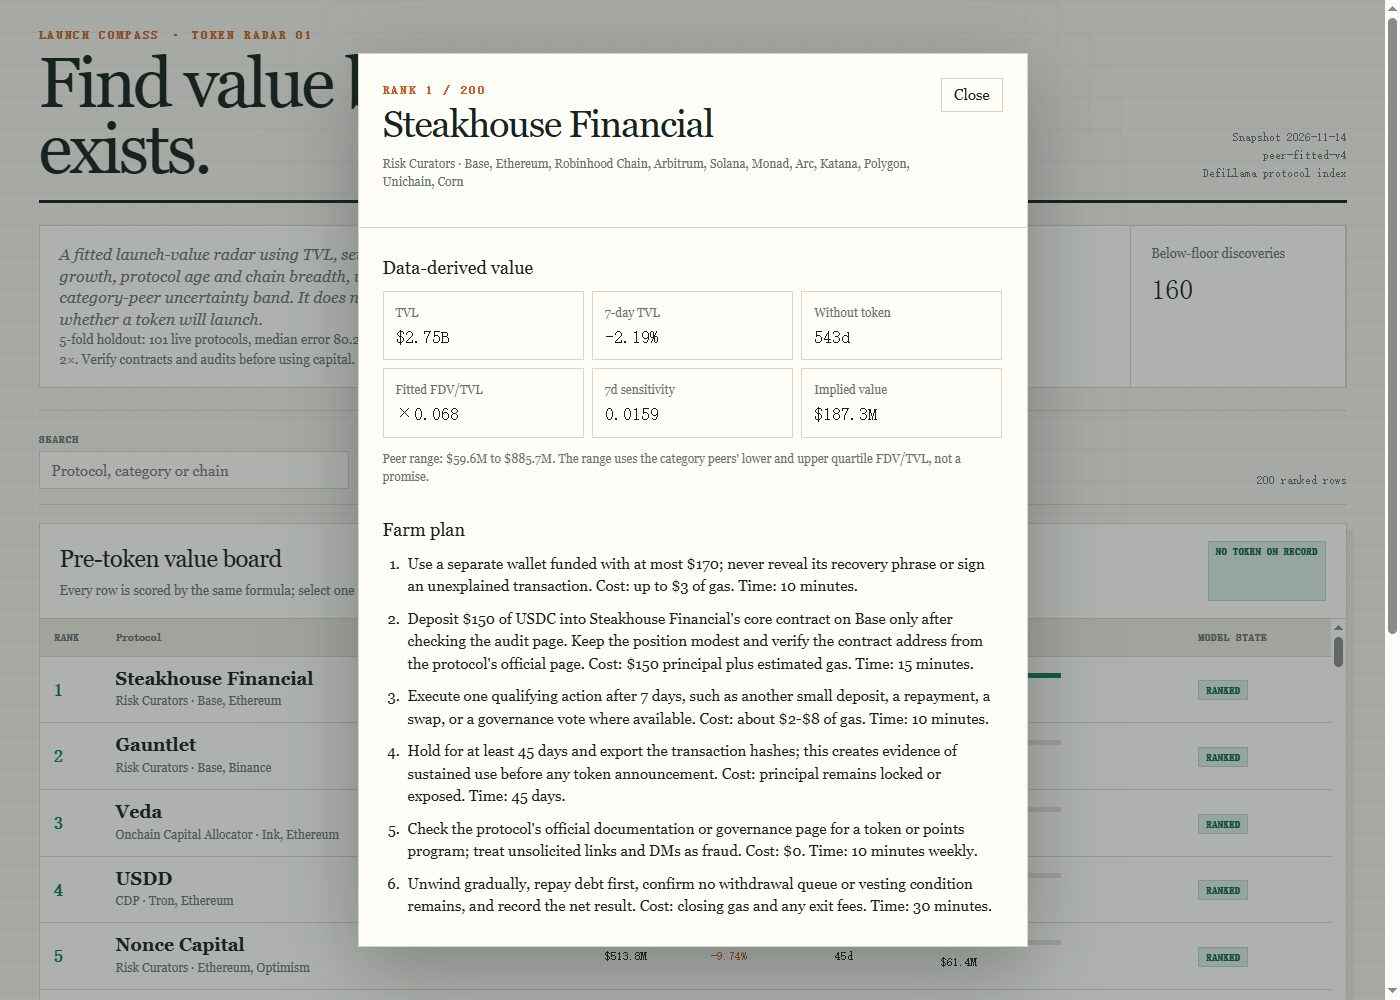
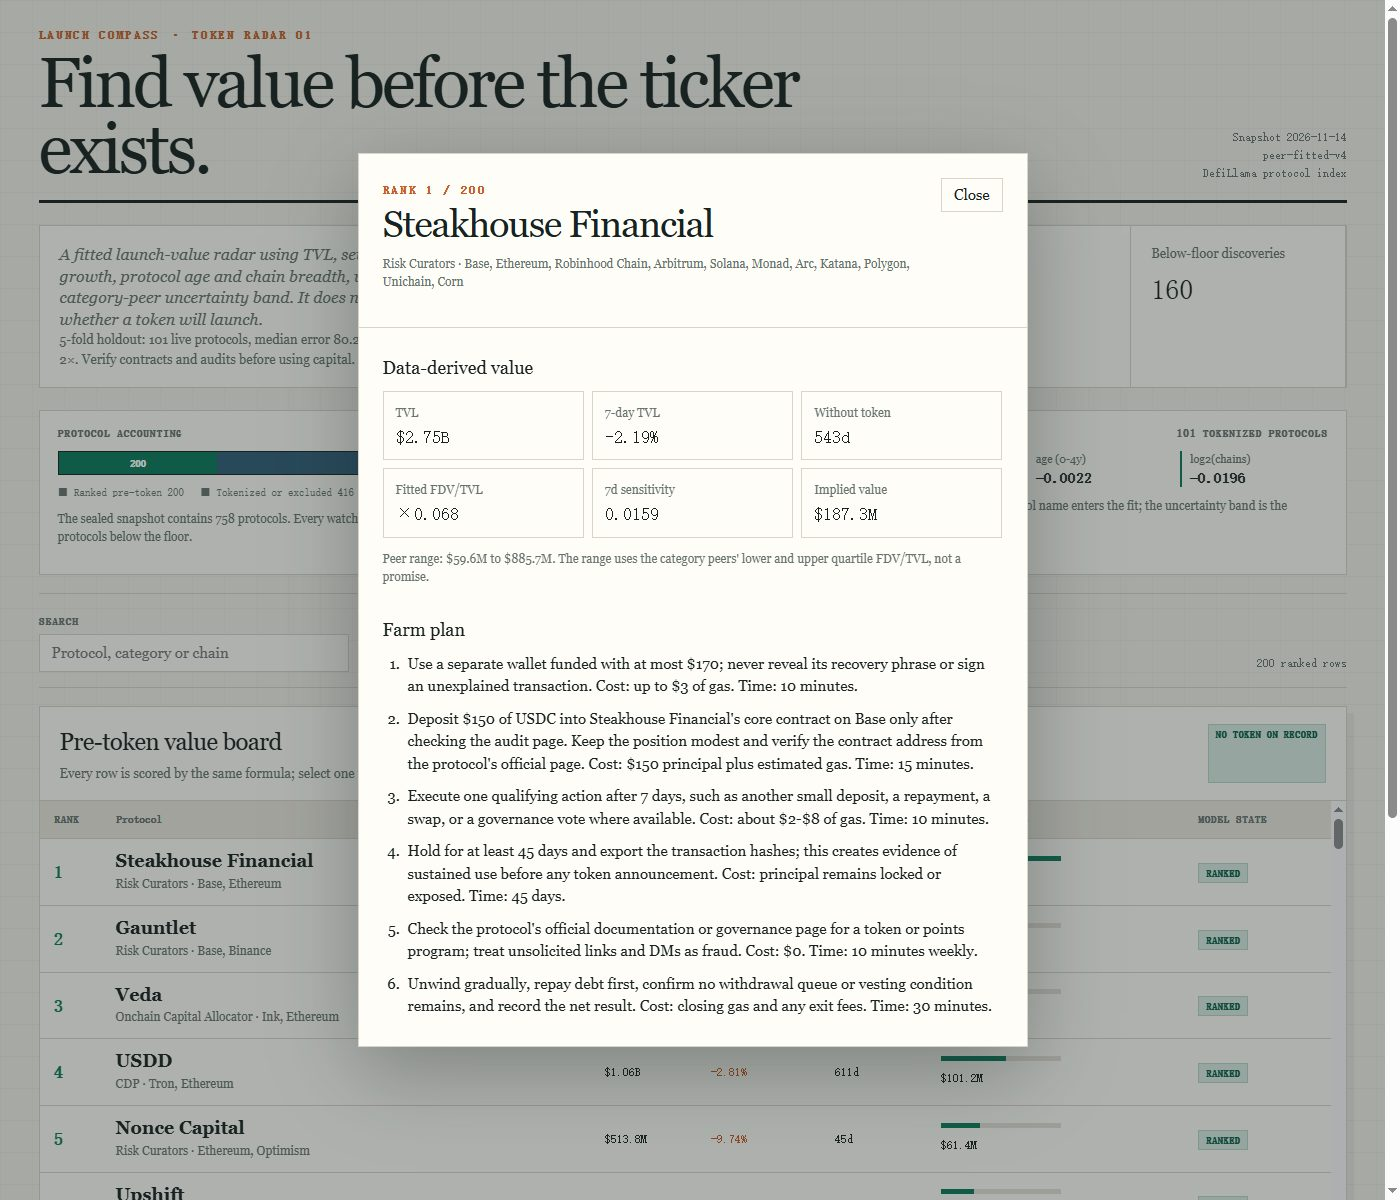
Show fitted evidence and universe accounting

diff --git a/dashboard/dashboard.js b/dashboard/dashboard.js
@@ -183,6 +183,46 @@
     );
   }
 
+  function evidence() {
+    var a = DATA.accounting;
+    var rankedShare = Math.round((a.ranked / DATA.universe_size) * 100);
+    var tokenizedShare = Math.round((a.tokenized / DATA.universe_size) * 100);
+    var otherShare = Math.max(0, 100 - rankedShare - tokenizedShare);
+    return node("section", { class: "evidence" },
+      node("div", { class: "evidence-panel" },
+        node("div", { class: "evidence-title" },
+          node("span", { text: "Protocol accounting" }),
+          node("span", { text: DATA.universe_size + " total" })
+        ),
+        node("div", { class: "ledger" },
+          node("span", { class: "ranked", style: "width:" + rankedShare + "%", text: String(a.ranked) }),
+          node("span", { class: "tokenized", style: "width:" + tokenizedShare + "%", text: String(a.tokenized) }),
+          node("span", { class: "other", style: "width:" + otherShare + "%", text: String(a.other_pre_token) })
+        ),
+        node("div", { class: "ledger-copy" },
+          node("span", { text: "■ Ranked pre-token " + a.ranked }),
+          node("span", { text: "■ Tokenized or excluded " + a.tokenized }),
+          node("span", { text: "■ Other pre-token " + a.other_pre_token }),
+          node("span", { text: "watchlist " + a.watchlist + " / " + a.watchlist })
+        ),
+        node("p", { class: "evidence-copy", text: "The sealed snapshot contains " + DATA.universe_size + " protocols. Every watchlist slug is ranked; the early radar adds pre-token protocols below the floor." })
+      ),
+      node("div", { class: "evidence-panel" },
+        node("div", { class: "evidence-title" },
+          node("span", { text: "5-fold holdout evidence" }),
+          node("span", { text: DATA.calibration.sample_size + " tokenized protocols" })
+        ),
+        node("div", { class: "coefficients" }, DATA.feature_evidence.map(function (item) {
+          return node("div", { class: "coefficient" },
+            node("span", { text: item.term }),
+            node("b", { text: (item.coefficient >= 0 ? "+" : "") + Number(item.coefficient).toFixed(4) })
+          );
+        })),
+        node("p", { class: "evidence-copy", text: "Median held-out error " + DATA.calibration.median_error_pct + "%; " + DATA.calibration.within_two_x_pct + "% within 2×. No protocol name enters the fit; the uncertainty band is the category peers' interquartile ratio." })
+      )
+    );
+  }
+
   function sortButton(key, label) {
     return node("th", null, node("button", { type: "button", text: label + (state.sort === key ? (state.direction < 0 ? " ↓" : " ↑") : ""), onclick: function () {
       if (state.sort === key) state.direction *= -1;
@@ -260,6 +300,7 @@
     var shell = node("div", { class: "shell" });
     shell.appendChild(header());
     shell.appendChild(summary());
+    shell.appendChild(evidence());
     shell.appendChild(toolbar());
     shell.appendChild(state.tab === "pre-token" ? preTokenTable() : liveTable());
     shell.appendChild(methodology());

diff --git a/dashboard/dashboard.css b/dashboard/dashboard.css
@@ -72,6 +72,62 @@ h1 {
   font: 500 28px/1 ui-monospace, "Cascadia Mono", monospace;
 }
 .summary .note { font-style: italic; font-size: 16px; line-height: 1.35; }
+.evidence {
+  display: grid;
+  grid-template-columns: 1fr 1fr;
+  gap: 12px;
+  margin: 0 0 18px;
+}
+.evidence-panel {
+  padding: 16px 18px;
+  border: 1px solid var(--line);
+  background: var(--card);
+}
+.evidence-title {
+  display: flex;
+  justify-content: space-between;
+  gap: 12px;
+  margin-bottom: 10px;
+  color: var(--muted);
+  font: 700 11px/1.2 ui-monospace, "Cascadia Mono", monospace;
+  letter-spacing: .08em;
+  text-transform: uppercase;
+}
+.ledger {
+  display: flex;
+  min-height: 24px;
+  overflow: hidden;
+  border: 1px solid var(--ink);
+}
+.ledger span {
+  display: flex;
+  align-items: center;
+  justify-content: center;
+  min-width: 28px;
+  padding: 4px 7px;
+  color: white;
+  font: 700 10px/1 ui-monospace, monospace;
+}
+.ledger .ranked { background: var(--green); }
+.ledger .tokenized { background: var(--blue); }
+.ledger .other { background: #b7b0a2; color: var(--ink); }
+.ledger-copy {
+  display: flex;
+  flex-wrap: wrap;
+  gap: 8px 16px;
+  margin-top: 10px;
+  color: var(--muted);
+  font: 11px/1.4 ui-monospace, monospace;
+}
+.coefficients {
+  display: grid;
+  grid-template-columns: repeat(4, 1fr);
+  gap: 7px;
+}
+.coefficient { border-left: 2px solid var(--green); padding-left: 8px; }
+.coefficient span { display: block; color: var(--muted); font-size: 11px; }
+.coefficient b { display: block; margin-top: 3px; font: 600 14px/1.2 ui-monospace, monospace; }
+.evidence-copy { margin-top: 10px; color: var(--muted); font-size: 12px; }
 .toolbar {
   display: flex;
   align-items: end;
@@ -207,6 +263,8 @@ dialog::backdrop { background: rgba(24,35,33,.35); }
   .masthead { grid-template-columns: 1fr; }
   .timestamp { text-align: left; }
   .summary { grid-template-columns: 1fr 1fr; }
+  .evidence { grid-template-columns: 1fr; }
+  .coefficients { grid-template-columns: 1fr 1fr; }
   .method { grid-template-columns: 1fr; }
   .field input { width: 100%; }
   .result-count { margin-left: 0; }

diff --git a/lib/model.ts b/lib/model.ts
@@ -82,6 +82,16 @@ export interface RadarData {
   early_size: number;
   live_size: number;
   universe_size: number;
+  accounting: {
+    ranked: number;
+    tokenized: number;
+    other_pre_token: number;
+    watchlist: number;
+  };
+  feature_evidence: Array<{
+    term: string;
+    coefficient: number;
+  }>;
   calibration: {
     sample_size: number;
     folds: number;
@@ -468,6 +478,23 @@ export function buildRadar(snapshot: Snapshot): { board: BoardRow[]; radar: Rada
     early_size: board.filter((row) => !snapshot.watchlist.includes(row.slug)).length,
     live_size: live.length,
     universe_size: snapshot.protocols.length,
+    accounting: {
+      ranked: board.length,
+      tokenized: snapshot.protocols.filter((protocol) => hasToken(protocol)).length,
+      other_pre_token: Math.max(
+        0,
+        snapshot.protocols.length -
+          board.length -
+          snapshot.protocols.filter((protocol) => hasToken(protocol)).length,
+      ),
+      watchlist: snapshot.watchlist.length,
+    },
+    feature_evidence: [
+      { term: "log10(TVL)", coefficient: benchmarks.coefficients[1] ?? 0 },
+      { term: "7-day growth", coefficient: benchmarks.coefficients[2] ?? 0 },
+      { term: "age (0-4y)", coefficient: benchmarks.coefficients[3] ?? 0 },
+      { term: "log2(chains)", coefficient: benchmarks.coefficients[4] ?? 0 },
+    ],
     calibration: benchmarks.calibration,
     rows: board.map(({ farm_steps: _steps, ...row }) => row),
     live,
